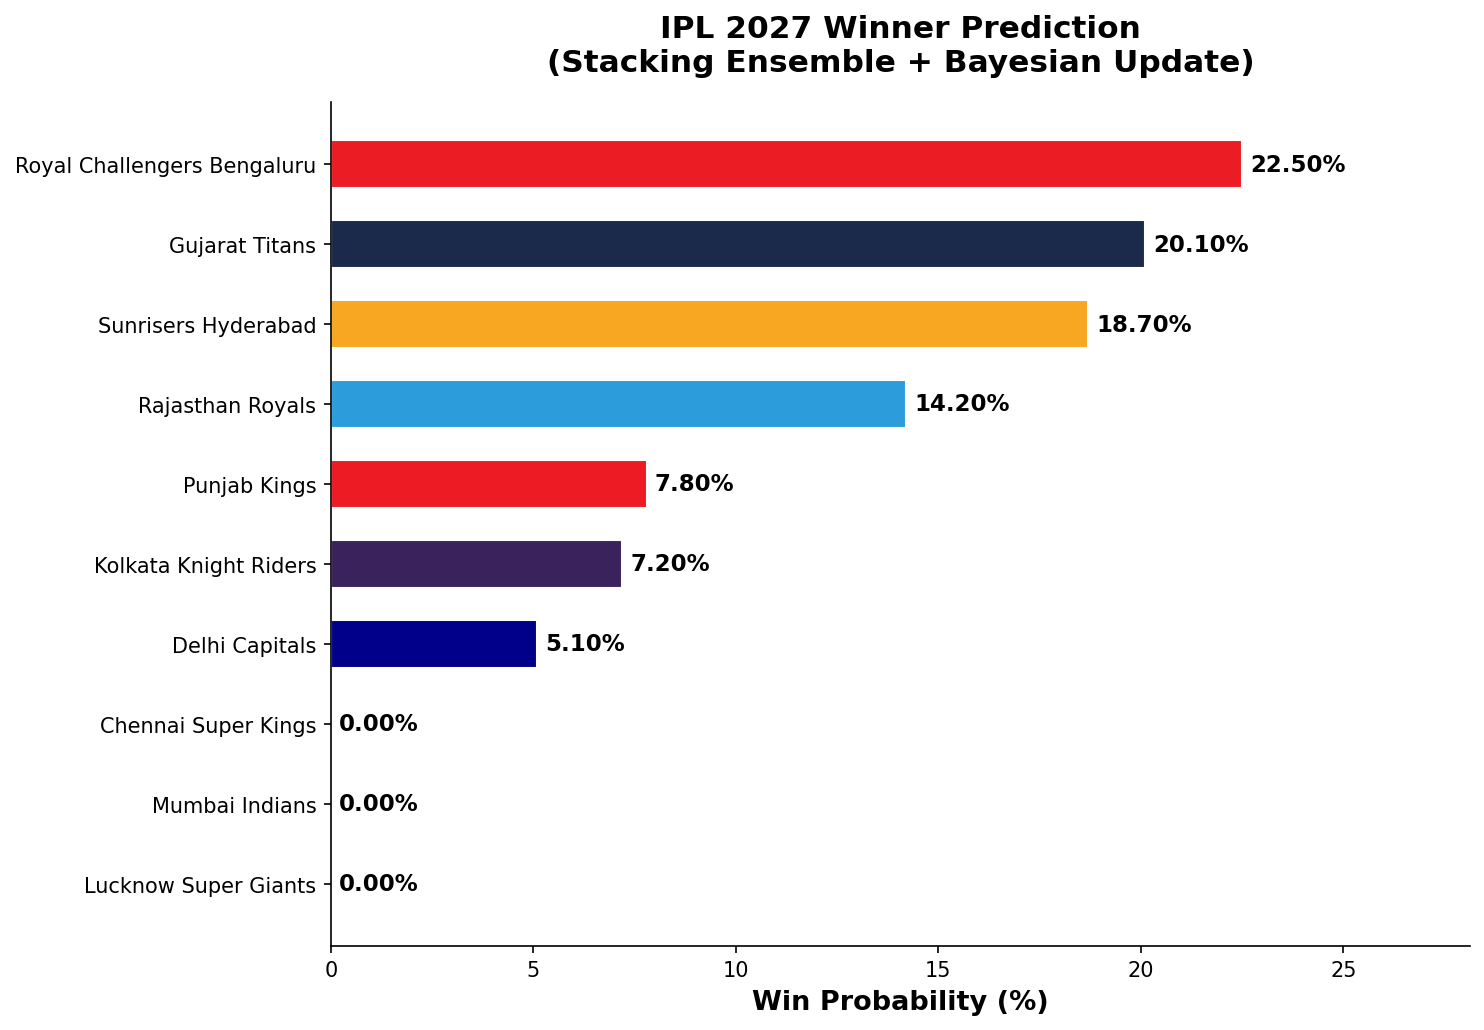
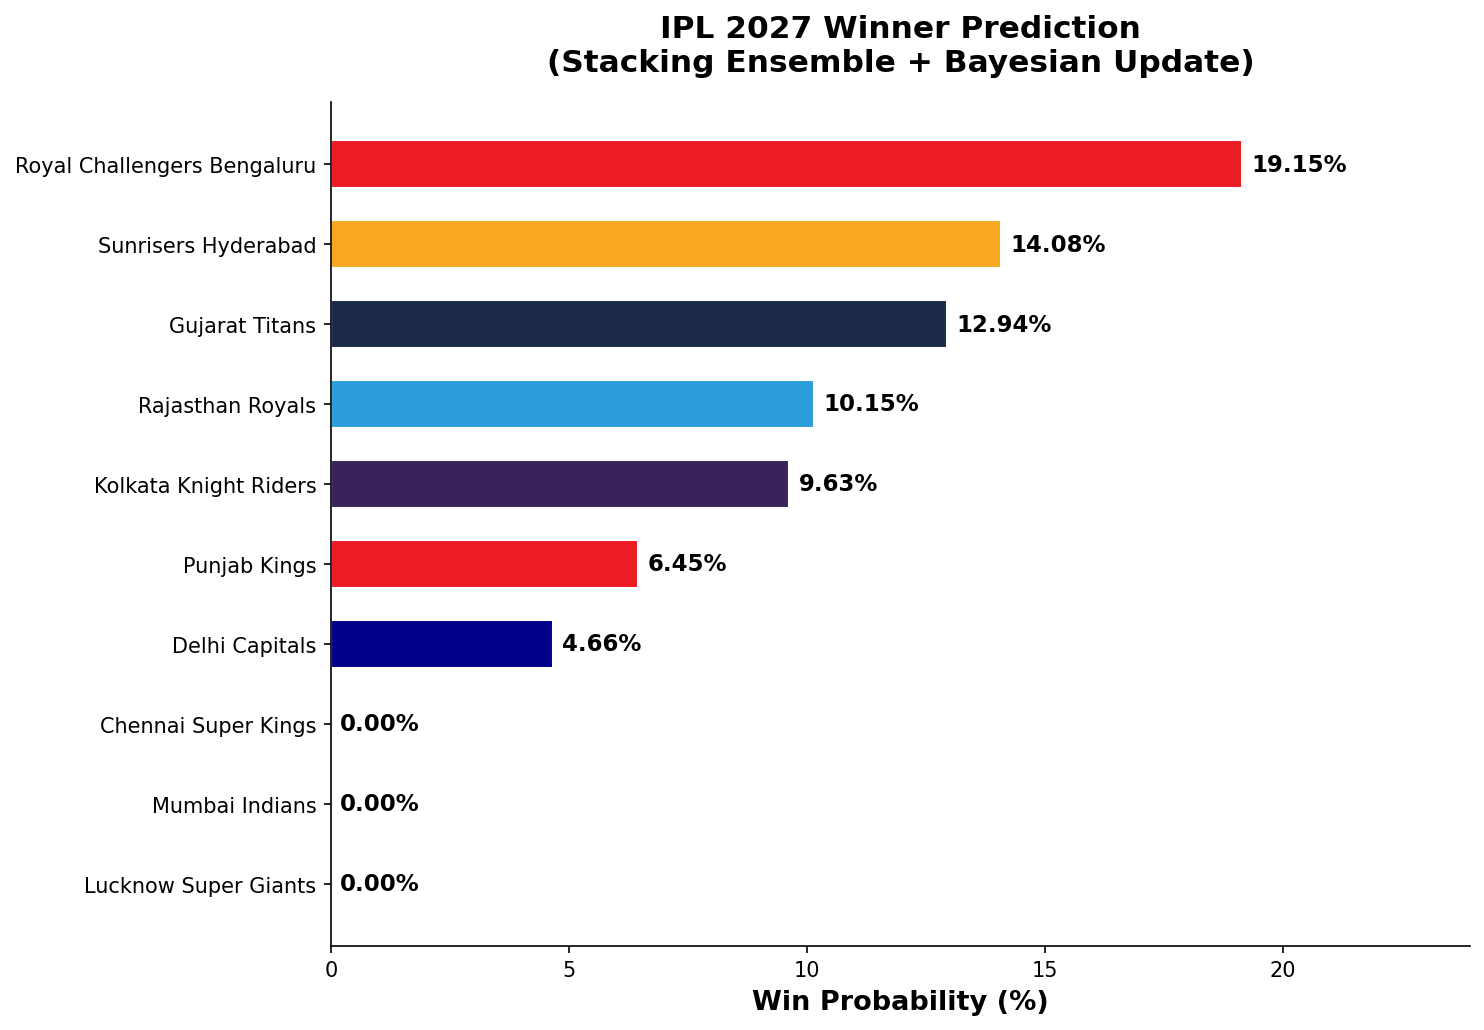
fix: resolve local setup issues and update IPL 2027 predictions
- Add pyarrow and mlflow to pyproject.toml dependencies
- Fix MLflow tracking URI: switch from deprecated file:// store to SQLite backend (mlflow 3.x compat)
- Add guard in main.py to skip tournaments with missing raw data (icc_men, icc_women)
- Update outputs: regenerated IPL 2027 predictions, SHAP plots, and model results from real Cricsheet data

diff --git a/main.py b/main.py
@@ -44,7 +44,13 @@ def mode_setup():
     logger.info("Step 1/5: Extracting match data from raw JSONs...")
     run_create_dataset()
 
+    import os
     for tournament in TOURNAMENTS.keys():
+        raw_dir = TOURNAMENTS[tournament]["raw_dir"]
+        if not os.path.exists(raw_dir) or not os.listdir(raw_dir) or (len(os.listdir(raw_dir)) == 1 and os.listdir(raw_dir)[0] == '.gitkeep'):
+            logger.warning(f"Skipping tournament '{tournament}' setup: raw data directory '{raw_dir}' is empty or does not exist.")
+            continue
+
         logger.info(f"--- Processing tournament: {tournament} ---")
         paths = get_tournament_paths(tournament)
 

diff --git a/src/models/trainer.py b/src/models/trainer.py
@@ -20,8 +20,10 @@ from src.models.xgboost_model import XGBoostModel
 
 logger = logging.getLogger(__name__)
 
-# Set MLflow experiment
-mlflow.set_tracking_uri(f"file:///{os.path.abspath(os.path.join('outputs', 'mlflow'))}")
+# Set MLflow experiment — use SQLite backend (required by MLflow 3.x; file store is deprecated)
+_mlflow_db = os.path.abspath(os.path.join("outputs", "mlflow", "mlflow.db"))
+os.makedirs(os.path.dirname(_mlflow_db), exist_ok=True)
+mlflow.set_tracking_uri(f"sqlite:///{_mlflow_db}")
 mlflow.set_experiment("IPL_2026_Winner_Prediction")
 
 
